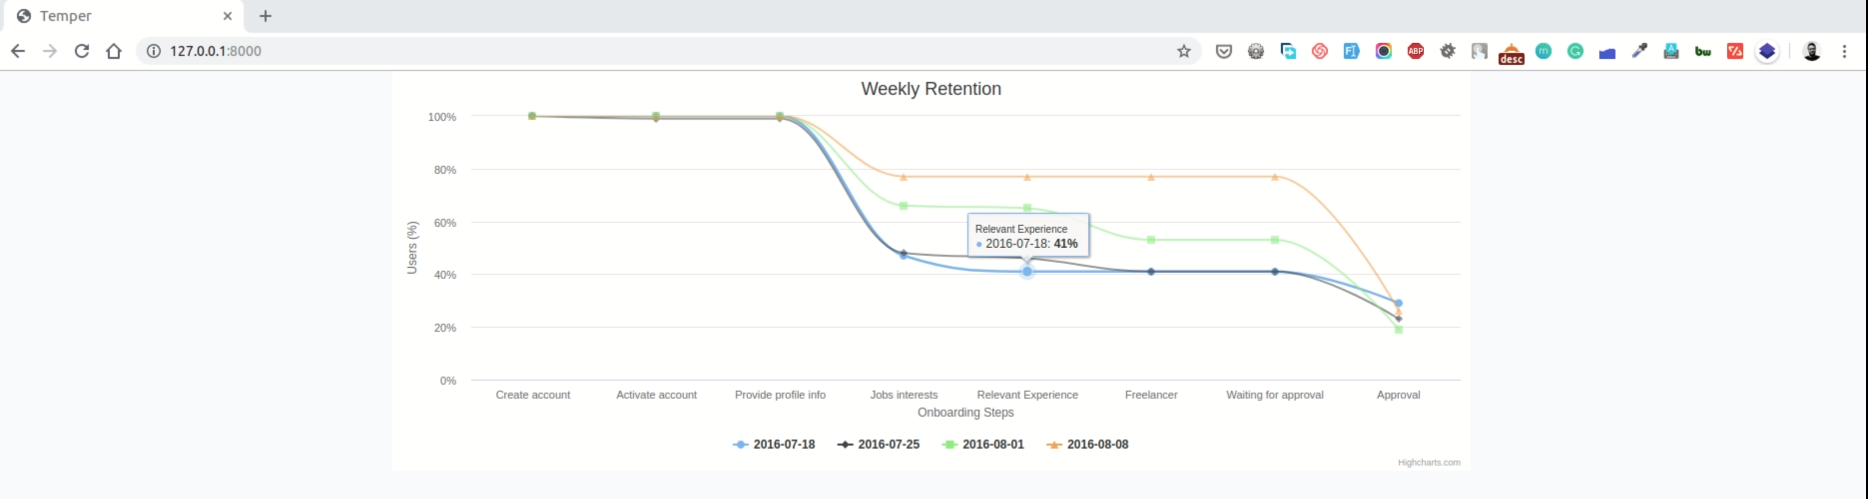
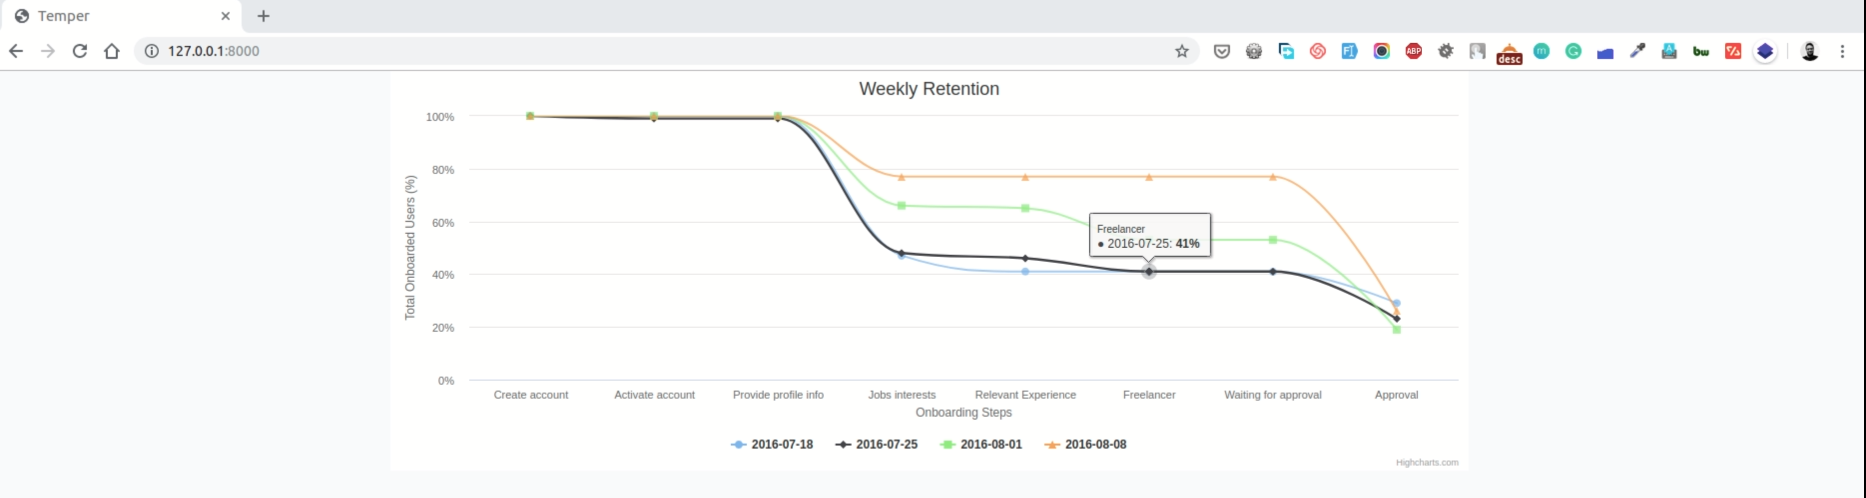
update screenshot and chart js

diff --git a/resources/js/components/ChartComponent.vue b/resources/js/components/ChartComponent.vue
@@ -30,7 +30,7 @@
                     },
                     yAxis: {
                         title: {
-                            text: "Users (%)"
+                            text: "Total Onboarded Users (%)"
                         },
                         labels: {
                             format: "{value}%"

diff --git a/public/js/app.js b/public/js/app.js
@@ -1862,7 +1862,7 @@ __webpack_require__.r(__webpack_exports__);
         },
         yAxis: {
           title: {
-            text: "Users (%)"
+            text: "Total Onboarded Users (%)"
           },
           labels: {
             format: "{value}%"
